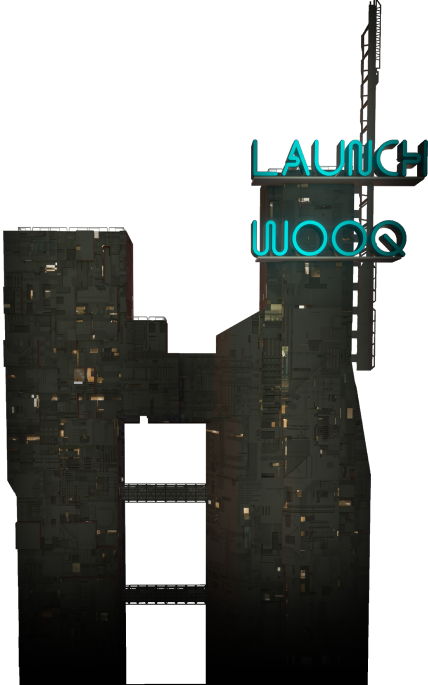
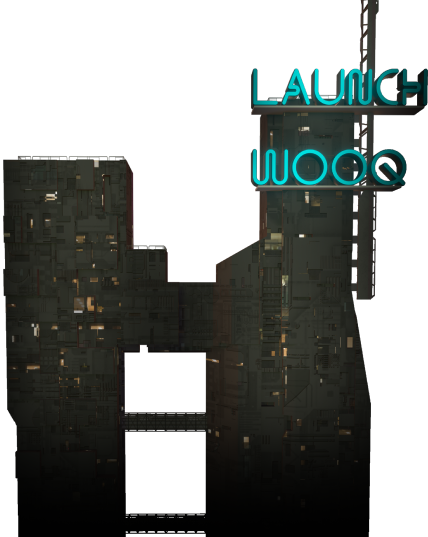
213

diff --git a/index.html b/index.html
@@ -27,7 +27,7 @@
 	<section class="welcome py-5 mt-5">
 		<h2 class="text-center">Добро пожаловать в <br><span class="display-4" style="color: #D600E2">WooQ</span></h2>
 		<p class="description text-center mt-5">WooQ для тех, кто желает инвестировать <br class="brlg">в новые технологии и проекты, а так же <br class="brlg">работать с  профессиональной командой.</p>
-		<div class="window text-center container mt-5 py-5 rounded">
+		<div class="window text-center container mt-4 py-5 rounded">
 			<h3>Регистрируйтесь и получайте бесплатные токены</h3>
 			<p>Всего 300 000 актива</p>
 			<a href="#" class="btn text-center rounded border-secondary py-2 px-6 mt-4">Регистрация</a>
@@ -53,7 +53,7 @@
 		<div class="container">
 			<div class="row">
 				<div class="col-12 col-lg-6 tower">
-					<img class="d-block mx-auto" src="img/tower2.png" alt="">
+					<img class="img-fluid d-block mx-auto" src="img/tower2.png" alt="">
 				</div>
 				<div class="col-12 col-lg-6">
 					<h2 class="text-end">Рекламируйте свой проект в мире трендов через <br class="d-none d-lg-inline"><span class="display-4" style="color: #00D5E2">Launch WooQ</span></h2>
@@ -109,7 +109,7 @@
 		<div class="container">
 			<div class="row flex-lg-row-reverse">
 				<div class="col-12 col-lg-5 tower">
-					<img class="d-block mx-auto" src="img/tower5.png" alt="">
+					<img class="img-fluid d-block mx-auto" src="img/tower5.png" alt="">
 				</div>
 				<div class="col-12 col-lg-7">
 					<h2>Обучайся в реальном времени Топовым направлениям онлайн-бизнеса и зарабатывай на трендах <br class="d-none d-lg-inline"><span class="display-4" style="color: #D600E2">School WooQ</span></h2>
@@ -132,23 +132,27 @@
 			<div class="row mt-4">
 				<div class="col-12 col-lg-8">
 					<p class="description mt-5">Цифровой актив WooQ растет в цене и в будущем владельцам принесет % профита, за счет созданных продуктов компанией. <br><strong>Актива будет 210 000 000 миллионов штук.</strong></p>
-					<p class="mt-3">Если 1 человек купит на 100$, а 3 человека продадут по 100$ – то курс не изменится.</p>
-					<p>Убрали демпинг цены со стороны участников рынка  —  не получится опускать стоимость актива, так как алгоритм позволяет ему всегда расти</p>
-					<p>У актива есть четкое отображение спроса и предложения</p>
+					<p class="mt-3">✔ Если 1 человек купит на 100$, а 3 человека продадут по 100$ – то курс не изменится. <br>✔ Убрали демпинг цены со стороны участников рынка  —  не получится опускать стоимость актива, так как алгоритм позволяет ему всегда расти <br>✔ У актива есть четкое отображение спроса и предложения</p>
 				</div>
 				<div class="col-12 col-lg-4 d-none d-lg-block">
 					<img class="img-fluid" src="img/stockdecoration.png" alt="">
 				</div>
 			</div>
-			<div class="window window-leftlight py-5 rounded mt-5">
-				<h3 class="text-center">Алгоритм роста курса</h3>
-				<img class="img-fluid mx-auto d-block" src="img/graph.svg" alt="Graphic of grow">
-				<p class="text-center mt-3">рост на 0,03% каждый раз при покупке актива на 100$</p>
-			</div>
-			<div class="window window-leftlight py-3 rounded mt-3">
-				<h3 class="text-center">Алгоритм падения курса</h3>
-				<img class="img-fluid mx-auto d-block" src="img/graph2.svg" alt="Graphic of grow">
-				<p class="text-center mt-3">при продаже на каждые 100$, курс понижается на  0.01%</p>
+			<div class="row mt-5">
+				<div class="col-12 col-lg-6">
+					<div class="window window-leftlight py-4 m-1 rounded">
+						<p class="description text-center" class="text-center">Алгоритм роста курса</p>
+						<img class="img-fluid mx-auto d-block" src="img/graph.svg" alt="Graphic of grow">
+						<p class="text-center mt-3">рост на 0,03% каждый раз при покупке актива на 100$</p>
+					</div>
+				</div>
+				<div class="col-12 col-lg-6">
+					<div class="window window-leftlight py-4 m-1 rounded">
+						<p class="description text-center" class="text-center">Алгоритм падения курса</p>
+						<img class="img-fluid mx-auto d-block" src="img/graph2.svg" alt="Graphic of grow">
+						<p class="text-center mt-3">при продаже на каждые 100$, курс понижается на  0.01%</p>
+					</div>
+				</div>
 			</div>
 		</div>
 	</section>
@@ -186,30 +190,30 @@
 			<a href="#" class="btn text-center rounded border-secondary py-2 px-6 mt-3">Подключиться</a>
 		</div>
 	</section>
-	<section class="py-5">
-		<div class="container py-5 px-3 rounded" style="background-color: #B5E200">
+	<section class="py-5" style="background-color: #B5E200">
+		<div class="container rounded py-5">
 			<h2 class="text-dark">Как преобразуется проект WooQ через 1 год?</h2>
 			<div class="row mt-5">
 				<div class="col-12 col-md-6 col-xl-4 p-1">
-					<div class="bg-black rounded px-3 py-3">
+					<div class="bg-black rounded p-3">
 						<p class="m-0 mb-2">Запланированная прибыль:</p>
 						<h3 class="m-0">1 200 000$</h3>
 					</div>
 				</div>
 				<div class="col-12 col-md-6 col-xl-2 p-1">
-					<div class="bg-black rounded px-3 py-3">
+					<div class="bg-black rounded p-3">
 						<p class="m-0 mb-2">Цена актива:</p>
 						<h3 class="m-0">2.30$ </h3>
 					</div>
 				</div>
 				<div class="col-12 col-md-6 col-xl-3 p-1">
-					<div class="bg-black rounded px-3 py-3">
+					<div class="bg-black rounded p-3">
 						<p class="m-0 mb-2">Расходы на развитие:</p>
 						<h3 class="m-0">500 000$ </h3>
 					</div>
 				</div>
 				<div class="col-12 col-md-6 col-xl-3 p-1">
-					<div class="bg-black rounded px-3 py-3">
+					<div class="bg-black rounded p-3">
 						<p class="m-0 mb-2">Прибыль:</p>
 						<h3 class="m-0">700 000$</h3>
 					</div>
@@ -255,28 +259,29 @@
 		<div class="container">
 			<div class="row">
 				<div class="col-12 col-xl-4 p-1">
-					<div class="window py-4 px-2 rounded window-leftlight">
-						<h4 class="text-center">Контролируйте оборот средств</h4>
+					<div class="window py-4 px-4 rounded window-leftlight">
+						<p class="text-center description">Контролируйте оборот средств</p>
 						<p class="pt-3">• Прозрачно показываем, куда вкладываем деньги <br><br>• Видите каждый шаг развития проекта: по каждому продукту и по новому клиенту наших продуктов</p>
 					</div>
 				</div>
 				<div class="col-12 col-xl-4 p-1">
-					<div class="window py-4 px-2 rounded window-leftlight">
-						<h4 class="text-center">Вы можете наблюдать за всем процессом</h4>
+					<div class="window py-4 px-4 rounded window-leftlight">
+						<p class="text-center description">Наблюдайте за процессом</p>
 						<p class="pt-3">Деньги компании WooQ идут: <br>• В маркетинг, инфлюенс маркетинг <br>• На юр. процессы и с фин. шлюзы <br>• В разработку ПО <br>• Заработок компании зависит от финансирования %</p>
 					</div>
 				</div>
 				<div class="col-12 col-xl-4 p-1">
-					<div class="window py-4 px-2 rounded window-leftlight">
-						<h4 class="text-center">Хранение средств в WooQ БЕЗОПАСНО</h4>
+					<div class="window py-4 px-4 rounded window-leftlight">
+						<p class="text-center description">Храните средства безопасно</p>
 						<p class="pt-3">• Не торгуем деньгами на биржах <br>• Не платим проценты - нет долговых обязательств <br>• Весь капитал на холодных кошельках <br>• На биржах суммы для автовыплат <br>• Финансовая отчетность каждые 4 мес</p>
 					</div>
 				</div>
 			</div>
 		</div>
 	</section>
-	<section class="py-5">
-		<div class="container p-5 rounded" style="background-color: #00E23F">
+	<section class="py-5"></section>
+	<section class="finish py-5" style="background-color: #00E23F">
+		<div class="container rounded py-5">
 			<h2 class="text-dark">Регистрируйтесь и получайте бесплатные токены!</h2>
 			<div class="row mt-5">
 				<div class="col-12 col-lg-6 p-1">

diff --git a/css/style.css b/css/style.css
@@ -45,6 +45,9 @@ nav a{
 nav a:last-child{
 	border-right: none;
 }
+nav a:hover, footer a:hover{
+	color: #B5E200;
+}
 h2, h3, h4{
 	font-style: italic;
 	text-transform: uppercase;
@@ -53,7 +56,14 @@ h2, h3, h4{
 h2 span{
 	font-family: "Gamero";
 	font-weight: 400;
-	font-style: normal
+}
+.welcome h2 span,
+.metamarket h2 span,
+.launch h2 span,
+.crowd h2 span,
+.estate h2 span,
+.school h2 span{
+	font-style: normal;
 }
 .description{
 	font-size: 24px;
@@ -192,11 +202,10 @@ h2 span{
 }
 
 .map::-webkit-scrollbar {
-	width: 3px;
 	background-color: #B5E299;
 }
 .map::-webkit-scrollbar-thumb {
-    background-color: #010101;
+    background-color: rgba(0, 0, 0, .2);
     border-radius: 6px;
 }
 .map > div{
@@ -207,6 +216,16 @@ h2 span{
 	position: absolute;
 	top: calc(50% - 15px);
 	right: 8px;
+}
+.finish{
+	position: relative;
+}
+.finish::before{
+	content: url("../img/finishairdrop.svg");
+	top: -66px;
+	left: 10%;
+	position: absolute;
+	z-index: -1;
 }
 footer, footer a{
 	font-size: 12px;
@@ -300,12 +319,14 @@ footer, footer a{
 	content: url(../img/towerlight_metamarket2.svg);
 	top: 0;
 	left: 0;
+	width: 300px;
 }
 .launch .tower::before{
 	content: url(../img/towerlight_launch2.svg);
-	bottom: 0;
-	right: 0;
+	bottom: 15%;
+	left: 0;
 	animation-duration: 2.5s;
+	width: 300px;
 }
 .crowd .tower::after{
 	content: url(../img/towerlight_crowd.svg);
@@ -315,10 +336,16 @@ footer, footer a{
 .estate .tower::after{
 	content: url(../img/towerlight_estate.svg);
 	bottom: 0;
-	left: 0;
+	right: 0;
 }
 .school .tower::after{
 	content: url(../img/towerlight_metamarket2.svg);
 	bottom: 0;
 	right: 0;
 }
+body{
+	overflow-x: hidden !important;
+}
+/*section{
+	overflow-x: hidden !important;
+}*/
